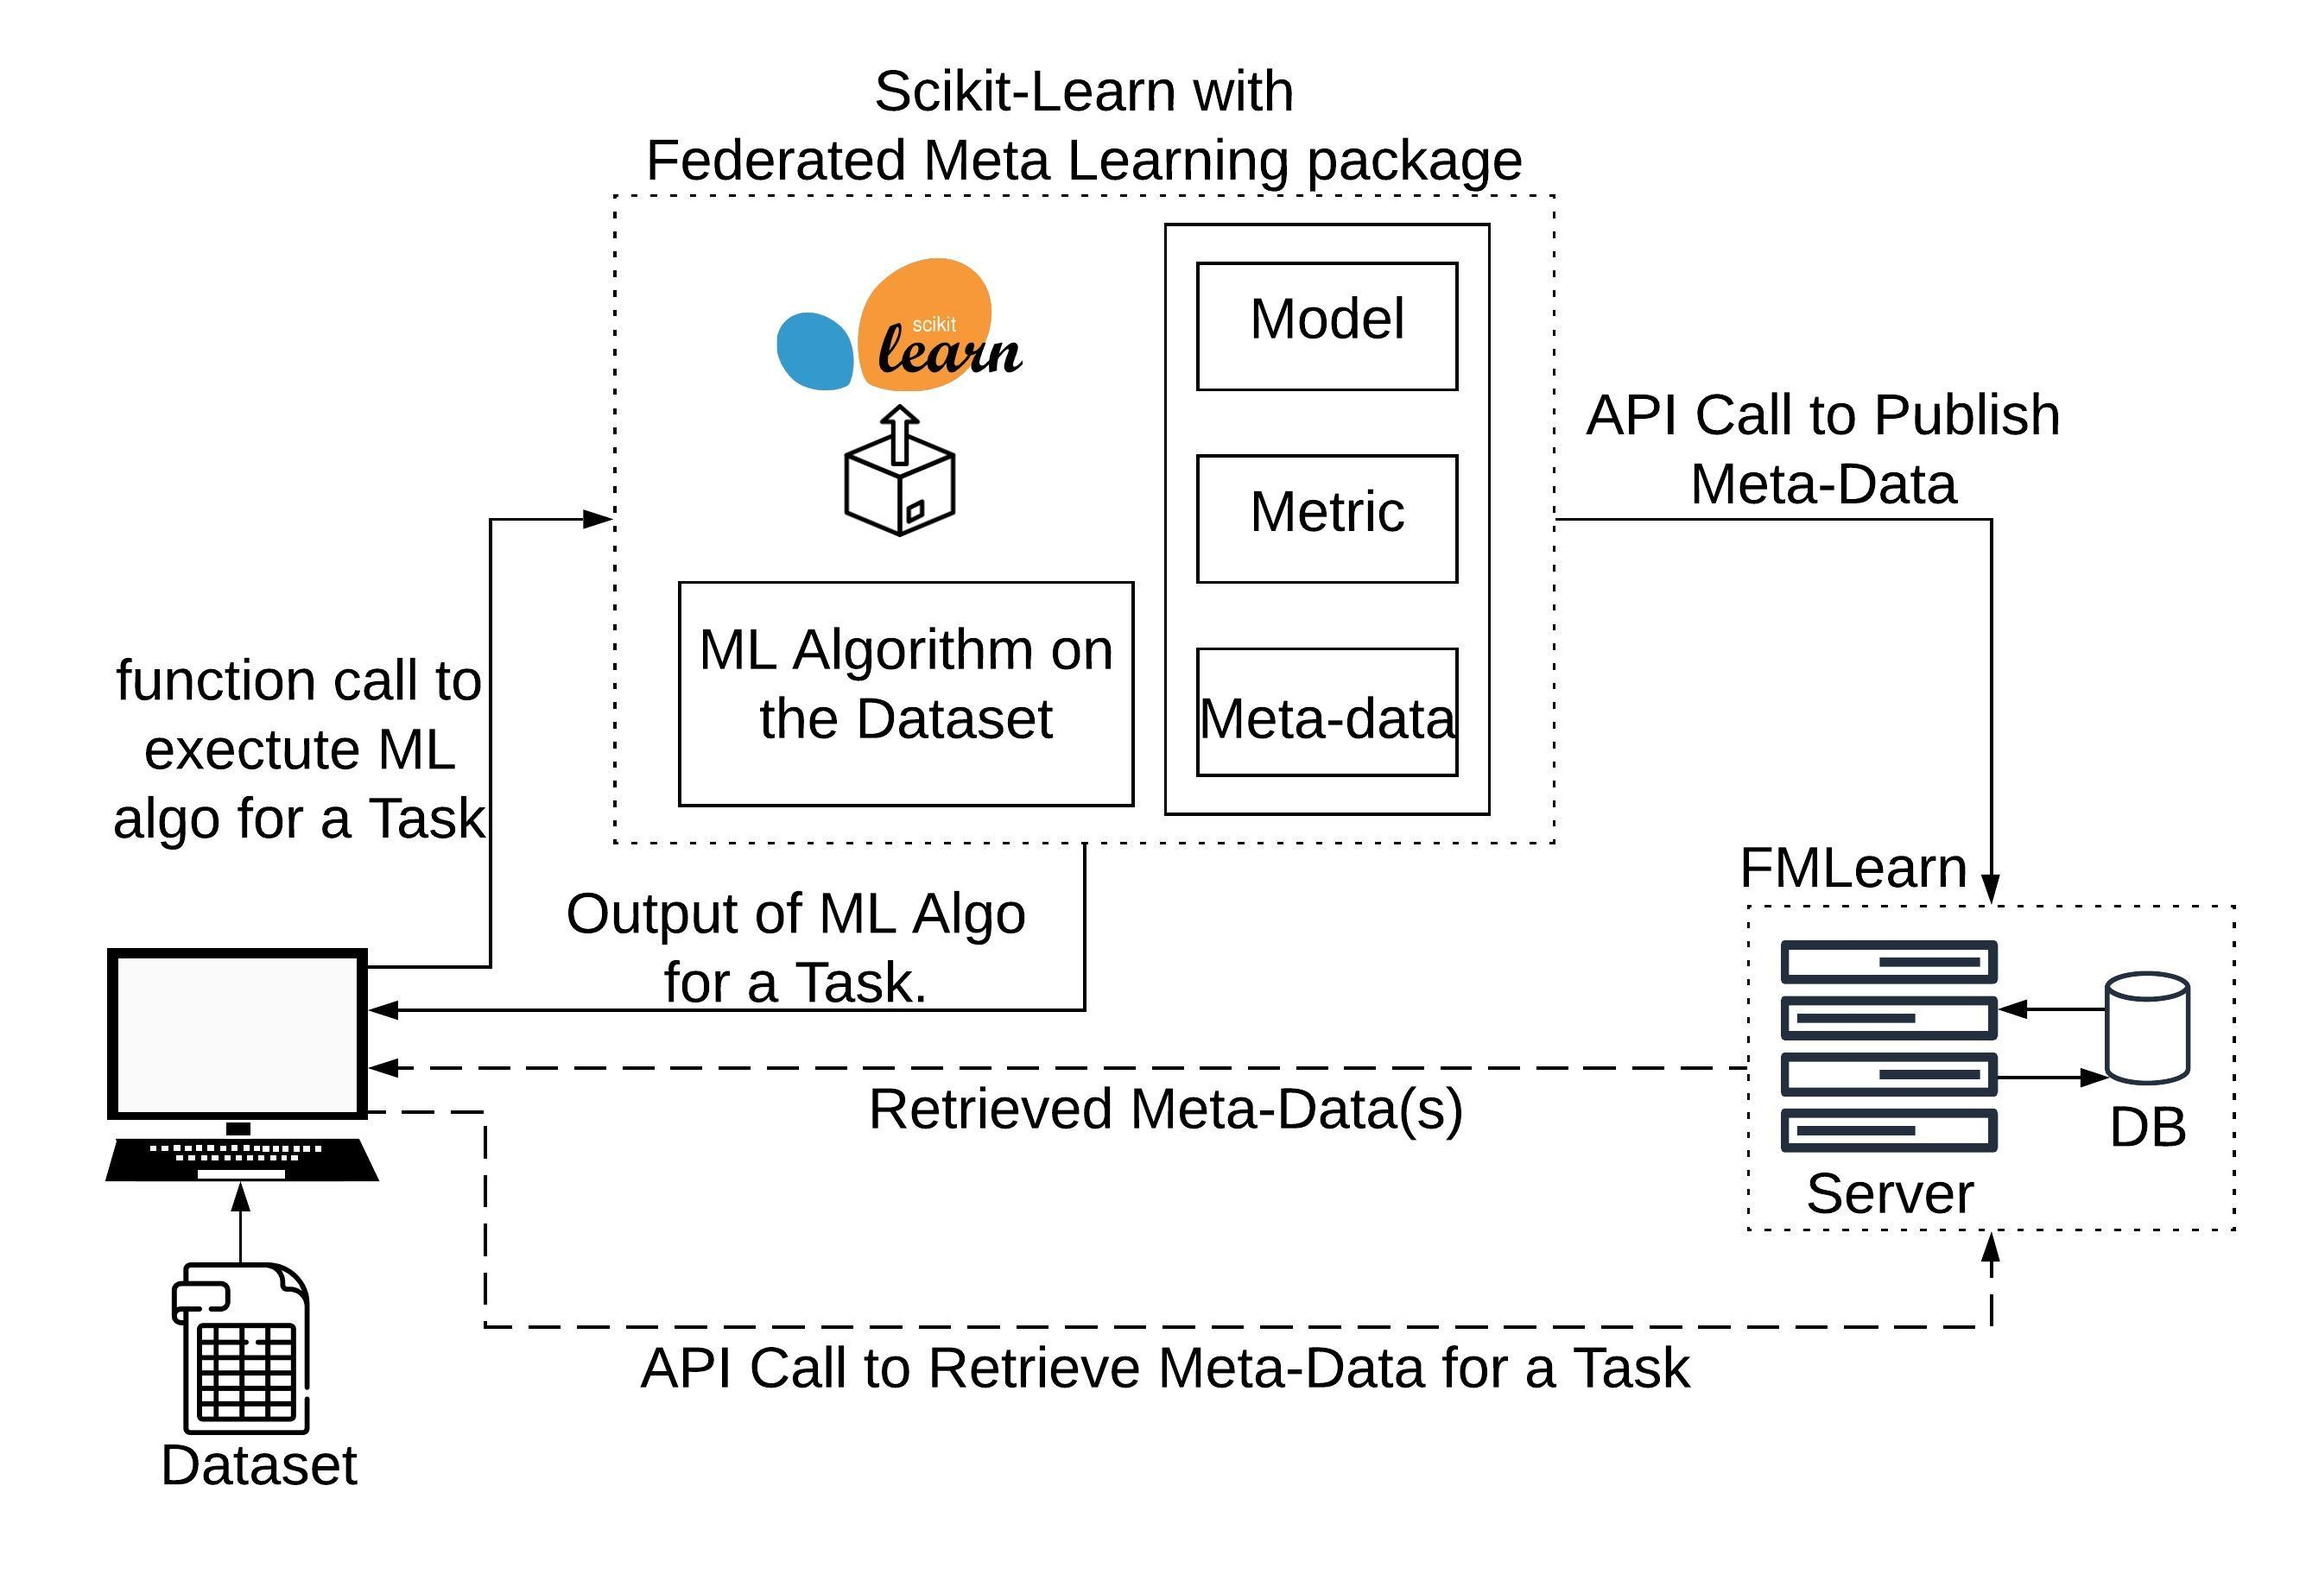
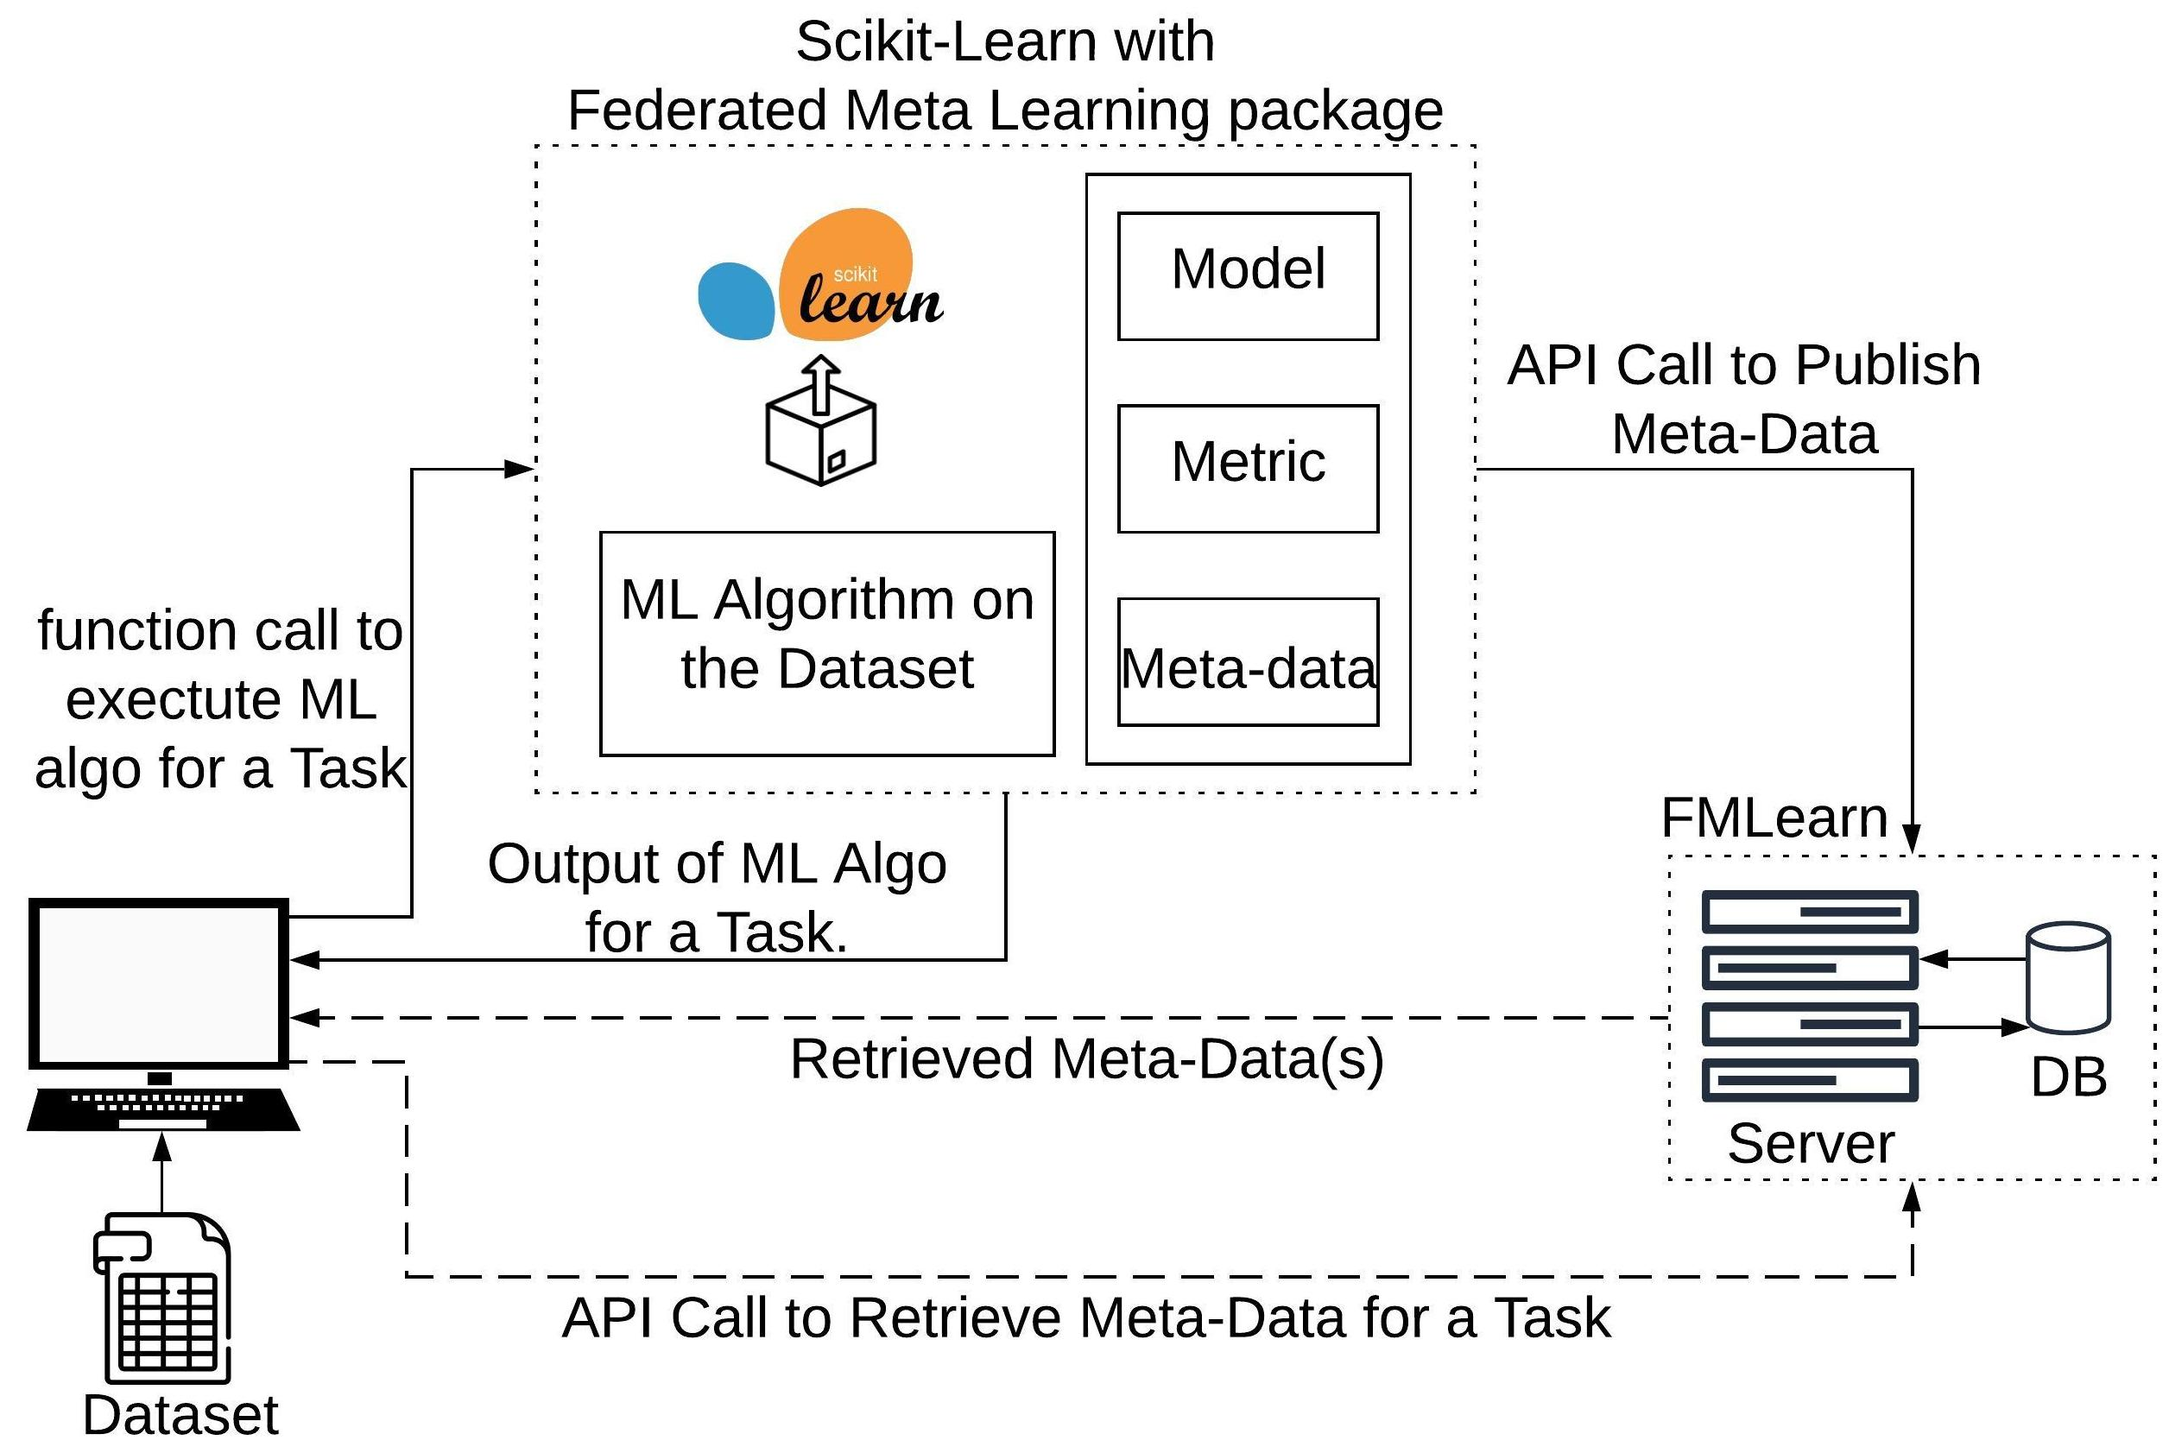
cropped the images to reduce white space

diff --git a/fml.tex b/fml.tex
@@ -147,7 +147,7 @@ We evaluated FMLearn by considering scikit-learn’s toy dataset’s for example
 With the introduction of Federated Meta Learning and developement of FMLearn, algorithm selection and configuration process can be changed, as the workflow of libraries have been modified, and the issue of (non) availability of data has been solved.
 
 \section{Limitations and Future Work}
-Currently as a prototype, FMLearn suggests algorithm(s), if the hashed dataset provided as the input is an exact match to that in the database. So, a generic data description language is to be introduced to the system which is powerful enough to handle requests. FMLearn only stores values like algorithm name, metric name, metric value and the hash dataset, in future implementation, we hope to store meta data about the model like the model parameters and metrics for various configurations. In the long run, social questions need consideration such as preventing manipulation (developers of algorithms may have an interest that their algorithms are `recommended`) and free-rider problems (users benefiting from the system without sharing their data). Another challenge would arise if the system should not only focus on the globally best algorithm for a task, but if per-instance algorithm selection should be learned. Ultimately, FMLearn should be able to predict algorithm performance for unseen tasks. This would make the whole system even more complex.
+Currently as a prototype, FMLearn suggests algorithm(s), if the hashed dataset provided as the input is an exact match to that in the database. So, a generic data description language is to be introduced to the system which is powerful enough to handle requests. FMLearn only stores values like algorithm name, metric name, value and the hash dataset. In future implementation, we hope to store meta data about the model like the model parameters and metrics. In the long run, social questions need consideration such as preventing manipulation (developers of algorithms may have an interest that their algorithms are `recommended`) and free-rider problems (users benefiting from the system without sharing their data). Another challenge would arise if the system should not only focus on the globally best algorithm for a task, but if per-instance algorithm selection should be learned. Ultimately, FMLearn should be able to predict algorithm performance for unseen tasks. This would make the whole system even more complex.
 
 \begin{thebibliography}{9}
 \bibitem{bischl-et-al}
